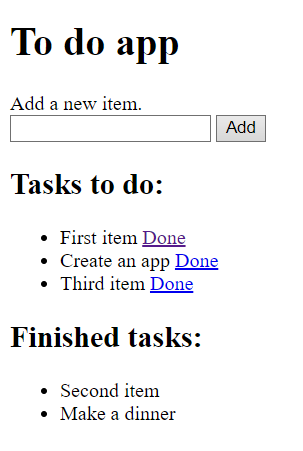
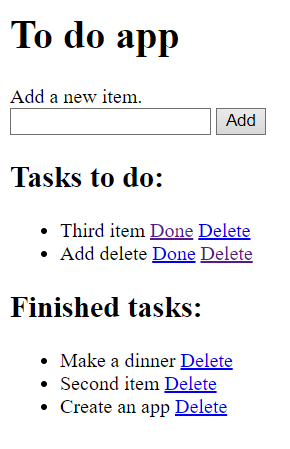
README update

diff --git a/README.md b/README.md
@@ -2,7 +2,11 @@
 > Blog
 
 ## General info
-Simple TODO flask application.
+Simple TODO flask application. It includes:
+* Adding new elements
+* Deleting elements
+* Marking tasks as done
+* Storing list in a database
 
 ## Screenshots
 Home page:
@@ -15,5 +19,5 @@ Home page:
 	* SQLAlchemy
 
 ## Status
-Project is: _done_
+Project is: _finished_
 
